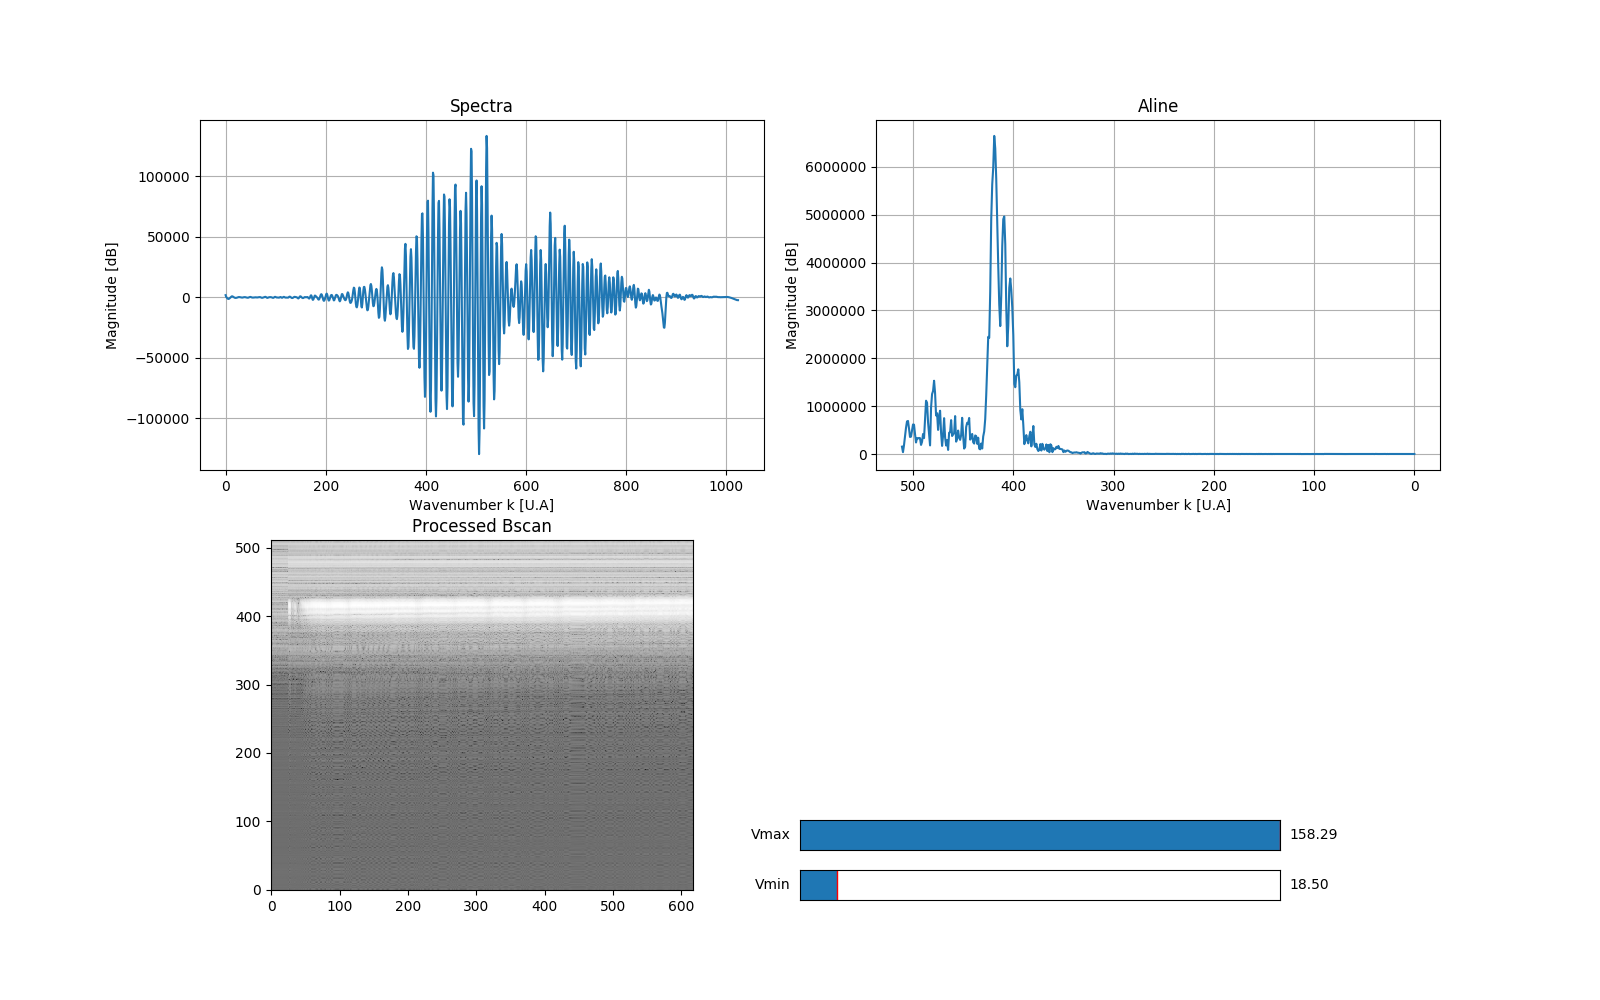
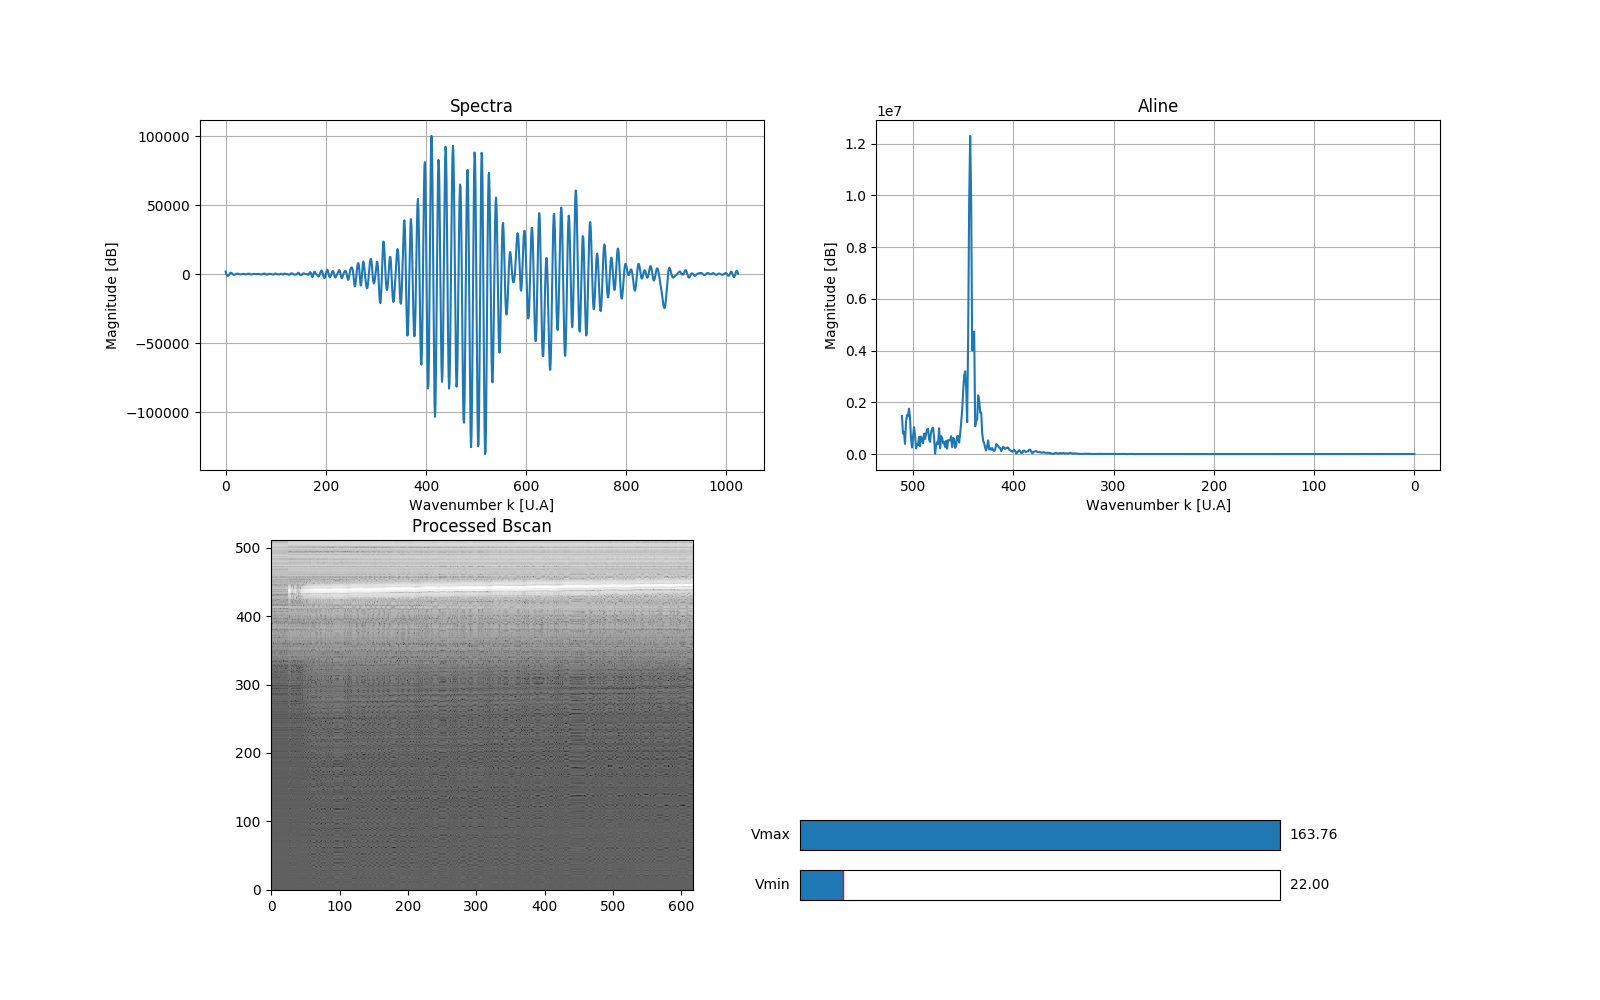
update sweep beta's

diff --git a/PyOCTCalibration/sweep_beta.py b/PyOCTCalibration/sweep_beta.py
@@ -2,36 +2,50 @@
 '''_____Standard imports_____'''
 import numpy as np
 import matplotlib.pyplot as plt
-from scipy.signal import butter
-from scipy import signal
 import copy
 import json
-from scipy.interpolate import interp1d
 import argparse
 
 
 '''_____Project imports_____'''
-from tools import *
-from PySpectra import Spectra
-from parsing import parse_arguments
+from toolbox.PySpectra import Spectra
+from toolbox.parsing import parse_arguments
+from toolbox.loadings import load_Bscan_spectra
+from toolbox.spectra_processing import process_Bscan
 
 
 
 args = parse_arguments()
 
 
-B1= -0.5433615672020556
-B2= 0.0019722375486931633
-B3= -5.040153501008985e-06
-B4= 6.095879607615912e-09
-B5= -2.340301943551366e-12
+Beta = {'B1': -0.4151697340967216,
+        'B2': 0.0004651524028133154,
+        'B3': 4.1227160200685674e-07,
+        'B4': -5.30274776612886e-10,
+        'B5': 2.165488418343404e-13}
+
 
 x = np.arange(1024)
 
+betaN = None
+for i in range(100):
 
-for i in range(20):
-    B5 *= (1+0.01)
-    sim_dispersion = B1 * x + B2 * x **2 + B3 * x **3 + B4 * x **4 + B5 * x**5
+
+    if betaN is None or factor is None:
+        betaN = input("What beta?")
+
+    factor = input("What multiplicative factor for betaN? [type q to quit or press to change betaN]")
+
+    if factor == 'q':
+        break
+
+    if betaN is None or factor is '':
+        betaN = input("What beta?")
+        factor = input("What multiplicative factor for betaN? [type q to quit or press to change betaN]")
+
+    print(betaN)
+    Beta[betaN] *= eval(factor)
+    sim_dispersion = Beta['B1'] * x + Beta['B2'] * x **2 + Beta['B3'] * x **3 + Beta['B4'] * x **4 + Beta['B5'] * x**5
 
 
     file = "/Volumes/USBEBE/data/" + args.input_file + '.raw'
@@ -66,13 +80,12 @@ for i in range(20):
     #ax1.set_xlim([400,500])
 
 
-    print(B5)
     fig.canvas.draw()
-    input( '\n B1:{0},\n B2:{1},\n B3:{2},\n B4:{3},\n B5:{4},\n Next iteration?\n'.format(B1,
-                                                                                           B2,
-                                                                                           B3,
-                                                                                           B4,
-                                                                                           B5) )
+    print( '{ \n B1:{0},\n B2:{1},\n B3:{2},\n B4:{3},\n B5:{4},\n Next iteration?\n }'.format(Beta['B1'],
+                                                                                           Beta['B2'],
+                                                                                           Beta['B3'],
+                                                                                           Beta['B4'],
+                                                                                           Beta['B5']) )
 
 
 

diff --git a/PyOCTCalibration/process_Bscan.py b/PyOCTCalibration/process_Bscan.py
@@ -1,51 +1,37 @@
 
 '''_____Standard imports_____'''
 import numpy as np
-import matplotlib.pyplot as plt
-from scipy.signal import butter
-from scipy import signal
-import struct
-import binascii
-import copy
 import json
-from scipy.interpolate import interp1d
 
 
 '''_____Project imports_____'''
-from PySpectra import Spectra
 from toolbox.parsing import parse_arguments
 from toolbox.spectra_processing import process_Bscan
-from toolbox.fits import get_fit_curve
-from toolbox.maths import apodization
 from toolbox.loadings import load_Bscan_spectra
 from toolbox.plottings import Bscan_plots
+from toolbox.fits import get_fit_curve
 
-
-with open("calibration/calibration_parameters.json") as json_file:
-    calibration = json.load(json_file)
 
 args = parse_arguments()
-
-
 
 file = "/Volumes/USBEBE/data/" + args.input_file + '.raw'
 
 Bscan_spectra = load_Bscan_spectra(file)
 
+B1=-0.4151697340967216
+B2=0.0004651524028133154
+B3=4.1227160200685674e-07
+B4=-5.30274776612886e-10
+B5=2.165488418343404e-13
+
+sim_dispersion = get_fit_curve([B1, B2, B3, B4, B5])
+
+Bscan, Spectra = process_Bscan(Bscan_spectra, sign_dispersion=args.dispersion, Pdispersion=sim_dispersion)
+
+Bscan_plots(Spectra, Bscan, args=args)
 
 
-Bscan, Spectra = process_Bscan(Bscan_spectra, sign_dispersion=args.dispersion)
 
-
-Bscan_plots(Spectra, Bscan)
-
-
-if args.save_plots:
-    fig1 = plt.figure(figsize=(16,10))
-    ax3 = fig.add_subplot(111)
-    plt.imshow( np.log(Bscan.T), cmap='gray')
-    plt.gca().invert_yaxis()
-    plt.savefig(args.input_file, bbox='tight')
 
 
 

diff --git a/PyOCTCalibration/calibration.py b/PyOCTCalibration/calibration.py
@@ -1,15 +1,12 @@
 
 '''_____Standard imports_____'''
 import numpy as np
-import matplotlib.pyplot as plt
-from scipy import signal
-import copy
 import json
 import sys
 
 
 '''_____Project imports_____'''
-from PySpectra import Spectra
+from toolbox.PySpectra import Spectra
 from toolbox.parsing import parse_arguments
 from toolbox.spectra_processing import compute_dispersion, k_linearization, shift_spectra
 from toolbox.loadings import load_data
@@ -20,7 +17,7 @@ args = parse_arguments()
 
 
 calibration_dir = "/Volumes/USBEBE/data/calibration/"
-calibration_dir = "calibration/spectra/16_mai/"
+calibration_dir = "calibration/spectra/20_mai/"
 
 
 Mirror1 = Spectra(data_dir=calibration_dir + "mirror-.txt",

diff --git a/PyOCTCalibration/toolbox/plottings.py b/PyOCTCalibration/toolbox/plottings.py
@@ -89,6 +89,8 @@ def interactive_shift(spectra1, param1, spectra2, param2):
             param2[2] += shift2
         plt.close()
 
+    return param1[2], param2[2]
+
 
 def shifted_spectra_plots(spectra1, param1, spectra2, param2):
 
@@ -144,7 +146,7 @@ def phase_dispersion_plot(exp_dispersion, fit_dispersion):
 
 
 
-def Bscan_plots(Spectra, Bscan):
+def Bscan_plots(Spectra, Bscan, args=None):
 
     Bscan = np.array(Bscan)
     dBscan = 10*np.log(Bscan)
@@ -192,7 +194,8 @@ def Bscan_plots(Spectra, Bscan):
     SVmin.on_changed(update)
     SVmax.on_changed(update)
 
+    if args.save_plots:
+        plt.savefig(args.input_file, bbox='tight')
     plt.show()
-    #plt.savefig("example",bbox='tight')
 
 # -

diff --git a/PyOCTCalibration/toolbox/spectra_processing.py b/PyOCTCalibration/toolbox/spectra_processing.py
@@ -40,14 +40,14 @@ def shift_spectra(spectra1, spectra2, N_pad, plot=True, args=None):
     shift2_condition = False
 
 
-    interactive_shift( ff1,
-                       [z_space, *coeff1],
-                       ff2,
-                       [z_space, *coeff2] )
+    coeff1[1], coeff2[1] = interactive_shift(ff1,
+                                             [z_space, *coeff1],
+                                             ff2,
+                                             [z_space, *coeff2])
 
 
 
-    x_shift = ( coeff1[1] + coeff2[1])/2
+    x_shift = ( coeff1[1] + coeff2[1]) / 2
 
     c1 = ( -coeff1[1] + x_shift )
     c2 = ( -coeff2[1] + x_shift )

diff --git a/PyOCTCalibration/toolbox/fits.py b/PyOCTCalibration/toolbox/fits.py
@@ -31,7 +31,7 @@ def fit_dispersion(Pdispersion):
 
     sim_dispersion = B1 * x + B2 * x**2 + B3 * x**3 + B4 * x**4 + B5 * x**5
 
-    print(' B1: {0},\n B2: {1},\n B3: {2},\n B4: {3}\n B5:{4}'.format(coeff[0],
+    print('\n B1: {0},\n B2: {1},\n B3: {2},\n B4: {3}\n B5:{4}'.format(coeff[0],
                                                                       coeff[1],
                                                                       coeff[2],
                                                                       coeff[3],

diff --git a/PyOCTCalibration/README.md b/PyOCTCalibration/README.md
@@ -64,6 +64,14 @@ Markup : * Bullet --dispersion : shows debug printout
 
 
 
+Here is an example of output give by:
+
+```console
+
+>>> python3 process_Bscan.py -f=cible_6 -d=anormal
+
+```
+
 ![Alt text](results/example.png?raw=true "Title")
 
 ## Pep8 coding convention
